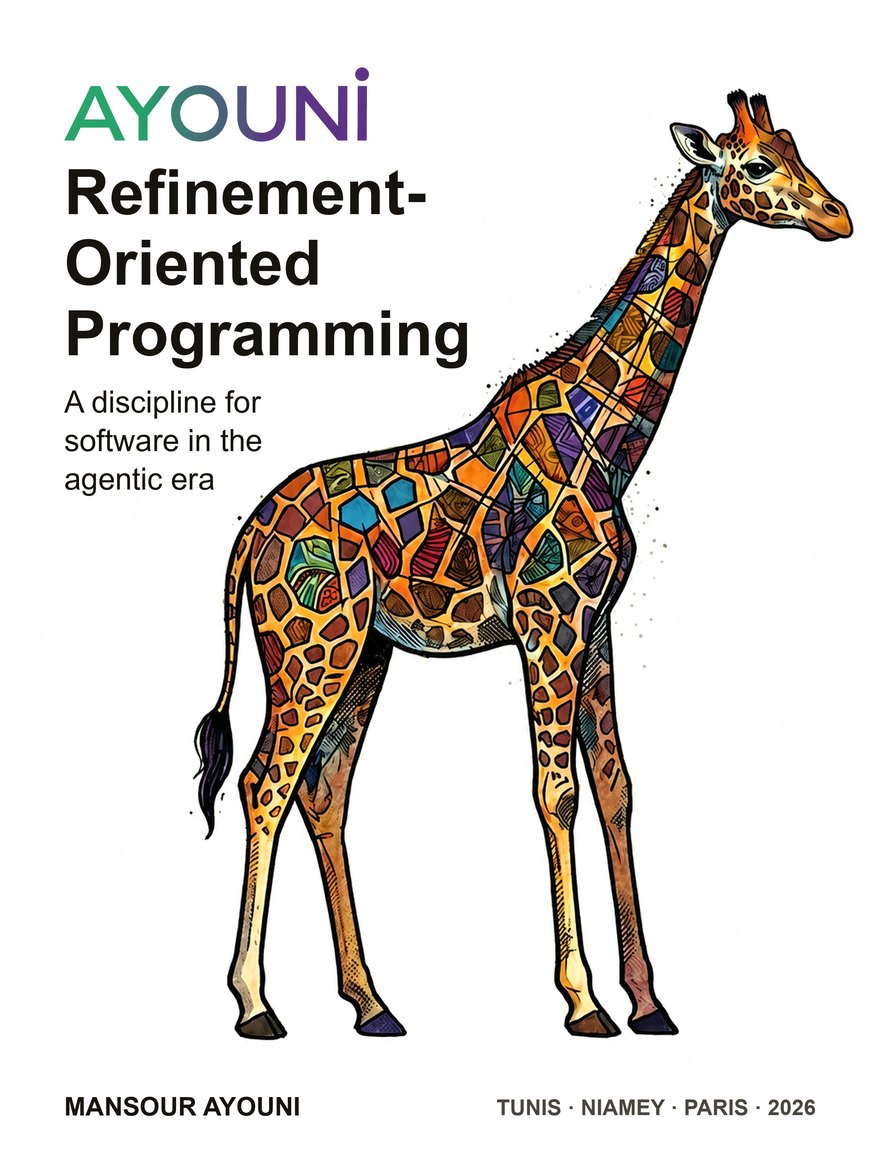
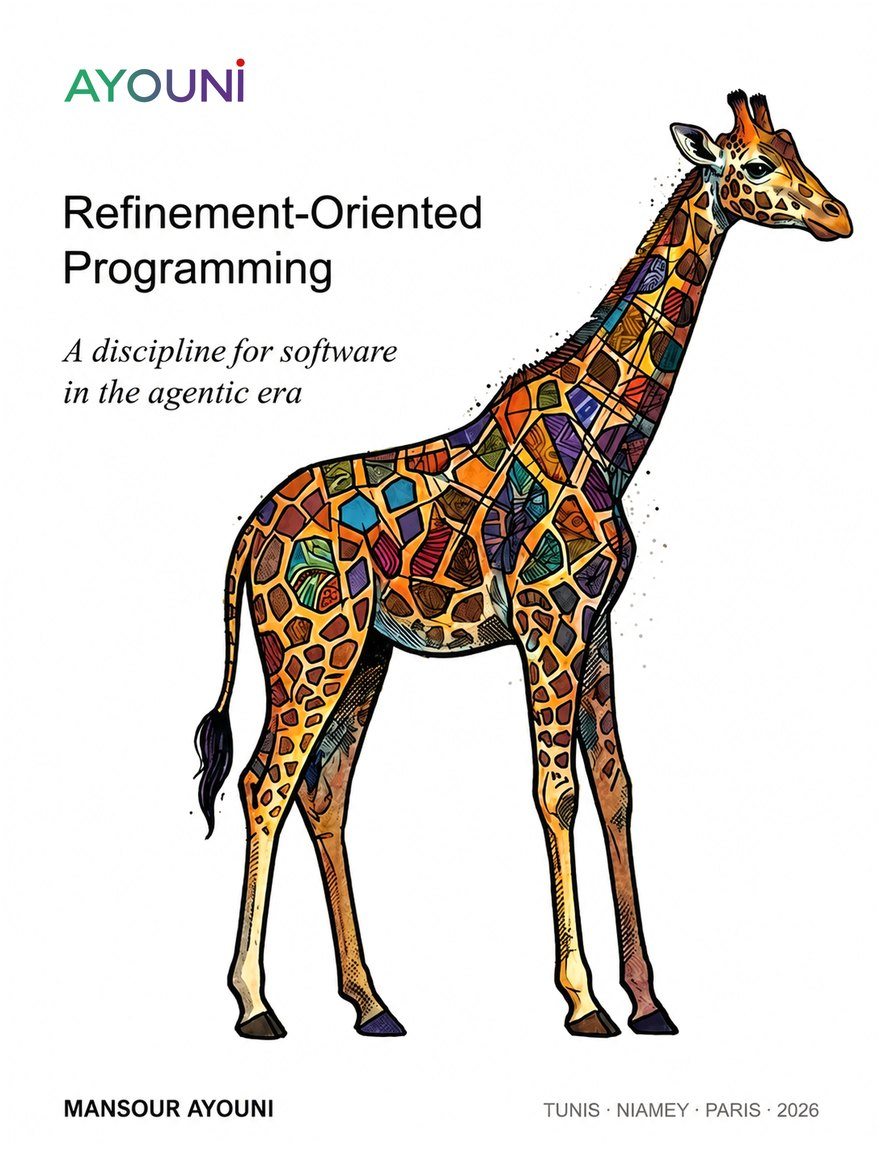
The corrected batch is published: Softanza pinned at 55b2c20 with its -5 PDFs, the Refinement Teaching Edition at 08f7a1d, fresh thumbnails (HOUSE-17)
The Softanza book at 55b2c20: its first cover design on pure white with the red-dot logo, one logo per reader page as the link home, a zoom icon on
the cover, the bank named Softibank. Its two proof-copy PDFs (610 and 630 pages) are those of the prerelease proof-copy-2026-10-15-5, pinned by sha256 and
size; the earlier releases of the day are superseded. The Refinement Teaching Edition (commits 1df4921 and 08f7a1d, made by the book session): a white
cover, the red-dot logo, a zoom icon, Sonibank renamed Softibank in the reader, the PDF and the figures. The home page's thumbnails are regenerated from
these covers; PAPER.md carries the new page counts; DECISIONS.md records the delivery.

Changed region(s): [[0.0614, 0.0609, 0.5523, 0.4261], [0.5523, 0.9435, 0.9511, 0.9739], [0.0614, 0.9435, 0.3375, 0.9739]]

diff --git a/DECISIONS.md b/DECISIONS.md
@@ -42,6 +42,8 @@ AYOUNI Press, the house session, records here what it decided and what the autho
 
 **HOUSE-11 · 2026-10-15 update: the Softanza PDFs.** The author's "confirm" (HOUSE-12) covered publishing the rebuilt Softanza readers and PDFs, and he gave the Softanza book session his own "Yes, push and release". The two proof-copy PDFs are served at `/books/softanza/book.en.pdf` and `/books/softanza/book.fr.pdf`, not committed: the registry pins each by sha256 and size to an asset of the prerelease `proof-copy-2026-10-15-2` of `mayouni/softanza-book` (606 and 628 pages, about 12 MB each), and the build refuses any other file. The first release of that day, tag `proof-copy-2026-10-15`, was made before the series ruling (HOUSE-13) and is superseded; the book session says so in its notes.
 
+**HOUSE-17 · 2026-10-15 update: delivered.** The corrected batch is published: the Softanza book pinned at `55b2c20` (the first design of the cover on pure white, the red-dot logo once per page as a link home, the zoom icon, the bank named Softibank), its two proof-copy PDFs now those of the prerelease `proof-copy-2026-10-15-5` (610 and 630 pages, pinned by sha256), and the Refinement Teaching Edition at `08f7a1d` (a white cover, the red-dot logo, Sonibank renamed Softibank in the reader, the PDF and the figures, a 107-page PDF). The earlier releases and commits of the day are superseded. The home page's thumbnails were regenerated from these covers.
+
 **HOUSE-05 · 2026-10-15 update.** "No PDF or ePub online unless I say so" now has its exceptions, each by his word: the Refinement PDF (HOUSE-11). A PDF or ePub goes online only if `site-src/books.json` lists it under `downloads` with the decision that allows it; `tools/check_public.py` fails on any other.
 
 **HOUSE-11 · the argument, as the author agreed with it, kept as the reason.** "Pay when you find it useful" is a promise of pay *after* use; a PDF behind payment is pay *before* use and reintroduces the thing the model removes. The PDF readers (offline, annotating, printing a chapter for a colleague, bringing it into a meeting) are the ones in whom "I found it useful" happens; gating the PDF gates that moment. The gate is not a lock anyway: the reader is one self-contained HTML file, anyone can save or print it; a wall anyone can walk around protects nothing and signals distrust. The house is open everywhere else (readers for people, data for AI agents, public source, every block runnable); a closed PDF would be the one closed door, and the one a decision-maker notices. Pay-what-you-want yields little money by itself; its currency is reach and trust, which for books addressed to professional decision-makers is the right currency: the book sells the platform and the practice, the paper and the author's time are the products. The free-online, buy-the-paper pattern has a long record (Eloquent JavaScript, Pro Git, SICP): the paper copy is bought as an object by people who already read the free one.

diff --git a/PAPER.md b/PAPER.md
@@ -20,7 +20,7 @@ with organisations:
 |---|---|---|
 | Service planned | IngramSpark, print on demand (its publishing plan, written before HOUSE-12) | none named |
 | Trim | 6 x 9 in, perfect-bound paperback (its publishing plan); the PDF is built at exactly 6 x 9 in | 6.5 x 8.5 in, the cover's own proportion, full bleed (the book's PRINT-01) |
-| Pages | 107 (PDF rebuilt 2026-10-15, one page more than the 106 of 2026-07-18: the last page before the back cover) | 606 English, 628 French (proof copy PDFs, per the book session) |
+| Pages | 107 (PDF rebuilt 2026-10-15, one page more than the 106 of 2026-07-18: the last page before the back cover) | 610 English, 630 French (proof copy PDFs, per the book session) |
 | ISBN | pending | none recorded |
 | Cover art | `web/cover.png`, 1097 x 1434 px | `assets/cover/cover.png`, 1097 x 1434 px |
 
